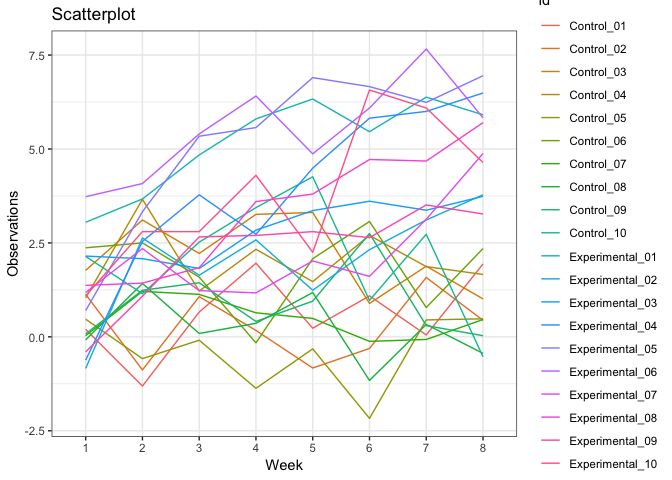
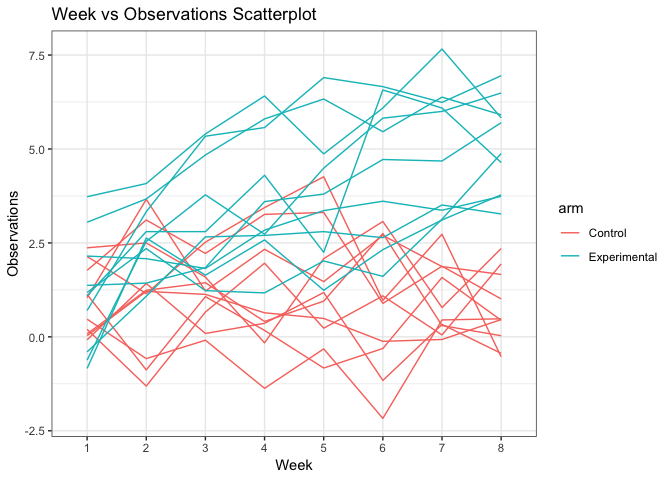
wrote answer to question

diff --git a/hw5.md b/hw5.md
@@ -21,25 +21,30 @@ read_data = function(file_names) {
   read_csv(file_names)
 }
 
-results = map(file_names, read_data)
+observations = map(file_names, read_data)
 
 results_df = tibble(
   id,
-  results
+  observations
 ) %>% 
-  mutate(id = str_replace(id, "con", "Control")) %>% 
-  mutate(id = str_replace(id, "exp", "Experimental")) %>% 
-  mutate(id = str_replace(id, ".csv", "")) %>% 
+  mutate(id = str_replace(id, "con", "Control"), 
+  id = str_replace(id, "exp", "Experimental"), 
+  id = str_replace(id, ".csv", "")) %>% 
+  mutate(arm = str_replace(id, "[1-9]$", ""), 
+         arm = str_replace(arm, "[0-1]$", ""),
+         arm = str_replace(arm, "1$", ""),
+         arm = str_replace(arm, "_", "")) %>% 
   unnest() %>% 
-  gather(key = week, value = results, week_1:week_8) %>% 
+  gather(key = week, value = observations, week_1:week_8) %>% 
   mutate(week = str_replace(week, "week_", ""))
 ```
 
 ``` r
-ggplot(results_df, aes(x = week, y = results, group = id, color = id)) +
+ggplot(
+  results_df, aes(x = week, y = observations, group = id, color = arm)) +
   geom_line() +
   labs(
-    title = "Scatterplot",
+    title = "Week vs Observations Scatterplot",
     x = "Week",
     y = "Observations"
   ) +
@@ -47,3 +52,5 @@ ggplot(results_df, aes(x = week, y = results, group = id, color = id)) +
 ```
 
 ![](hw5_files/figure-markdown_github/long_plot-1.png)
+
+From the data and subsequent plot it looks like the experimental arm overall had an increase in observation values over time compared to the control group.
